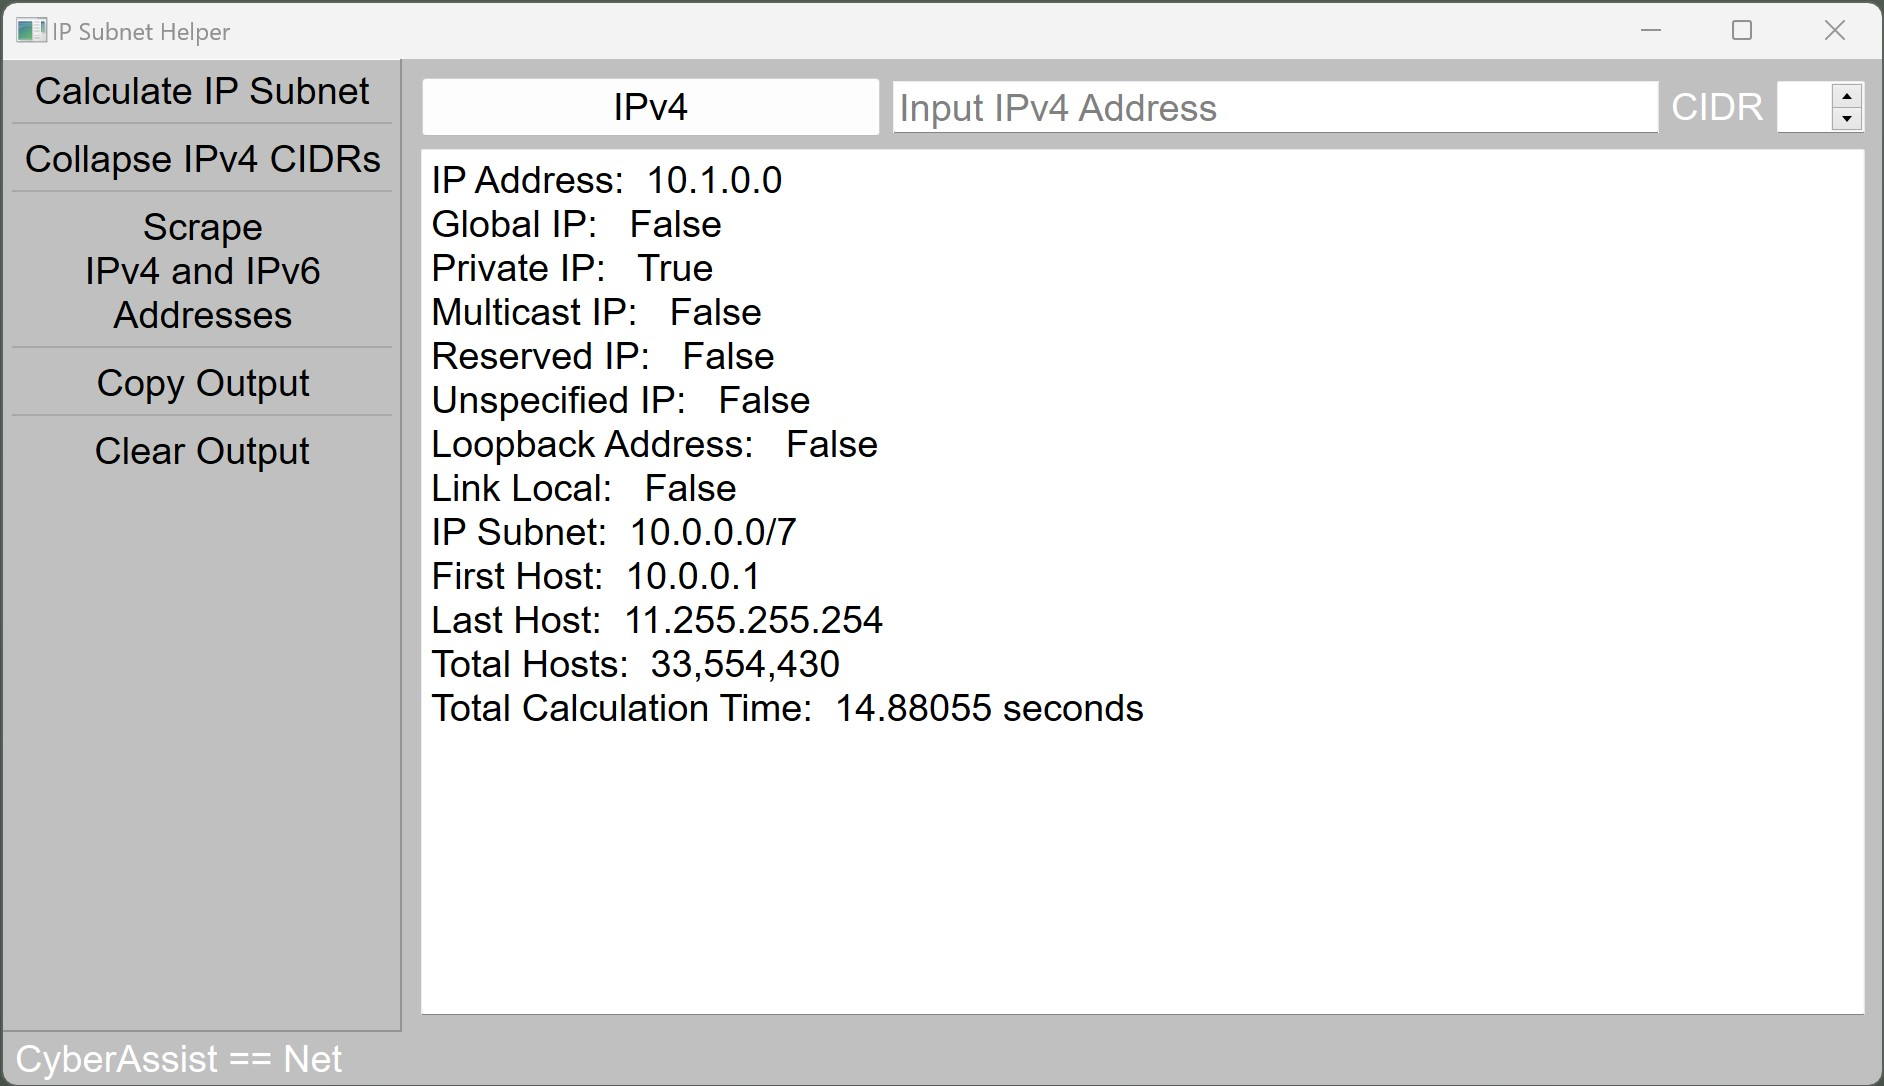
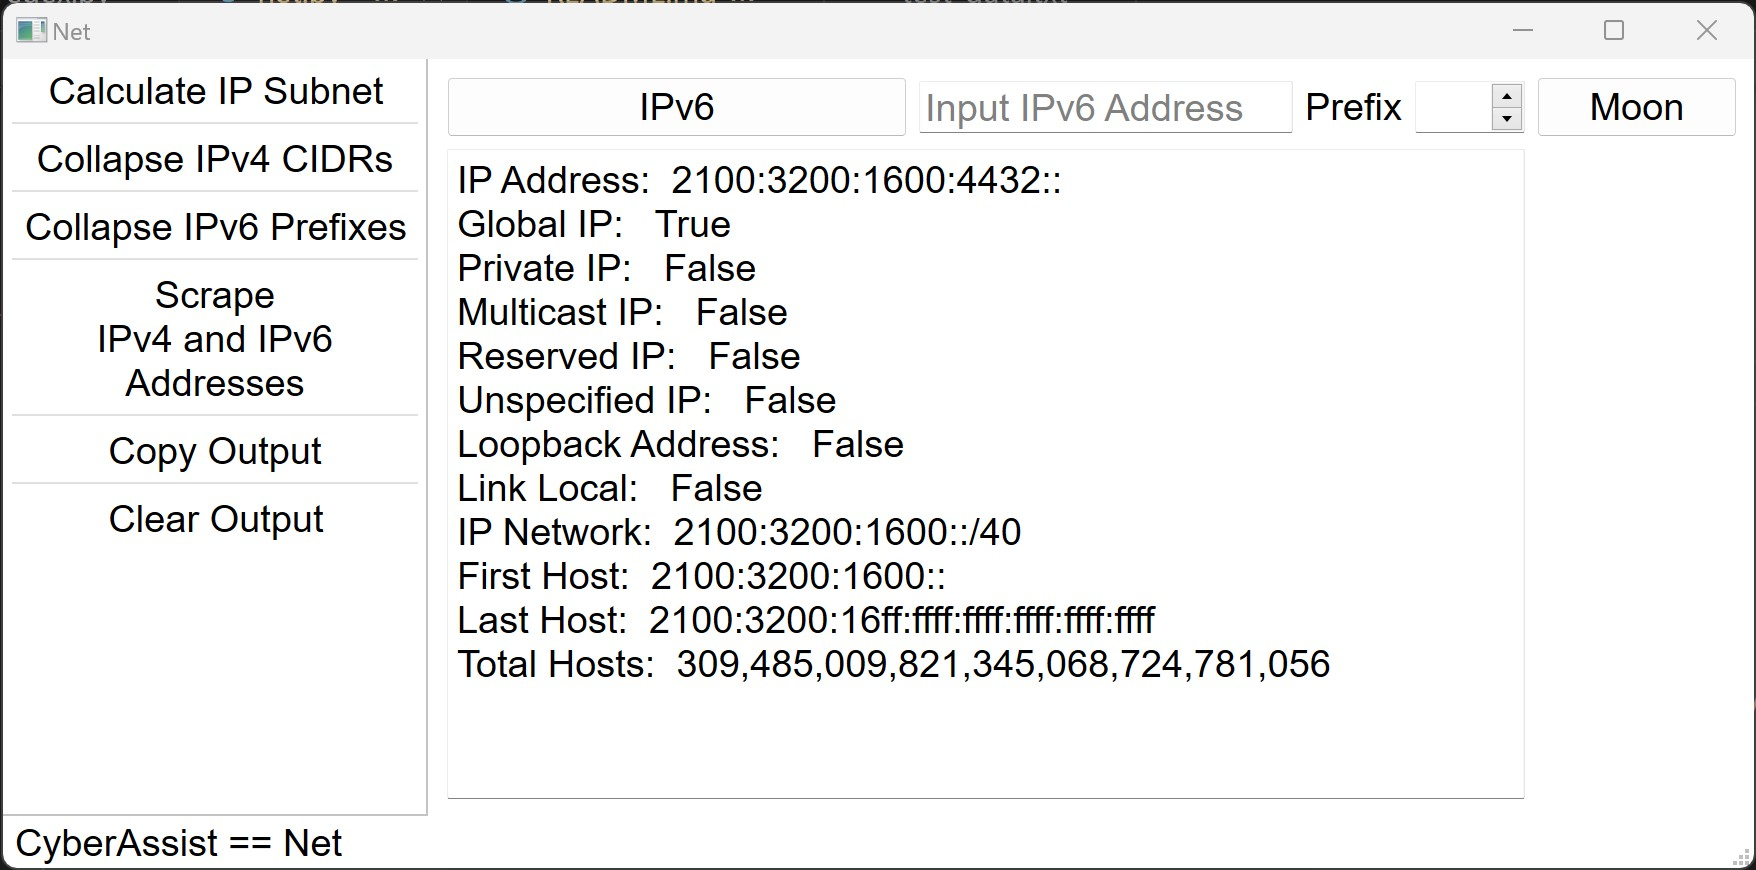
code performance enchancement

diff --git a/net/net.py b/net/net.py
@@ -47,7 +47,7 @@ class IP_calculate(QRunnable):
 
     def __init__(self, ip, ip_cidr):
             super().__init__()
-            self.signals = (ThreadSignal())
+            self.signals = ThreadSignal()
             self.ip = ip
             self.ip_cidr = ip_cidr
 
@@ -58,7 +58,6 @@ class IP_calculate(QRunnable):
         self.kwargs.
         '''
         try:
-            start_time = dt.now()
             ip_addr = ipaddress.ip_address(self.ip)
             global_ip = ip_addr.is_global
             multicast_ip = ip_addr.is_multicast
@@ -68,13 +67,10 @@ class IP_calculate(QRunnable):
             loopback_ip = ip_addr.is_loopback
             link_local = ip_addr.is_link_local
             ip_net = ipaddress.ip_network(f'{self.ip}/{self.ip_cidr}', strict=False)
-            ip_host_list = list(ip_net.hosts()) 
-            first_host = ip_host_list[0]
-            last_host = ip_host_list[-1]
-            total_hosts = '{:,}'.format(len(ip_host_list))
-            end_time = dt.now()
-            total_time = end_time - start_time
-            self.net_range = f'IP Address:  {ip_addr}\nGlobal IP:   {global_ip}\nPrivate IP:   {private_ip}\nMulticast IP:   {multicast_ip}\nReserved IP:   {reserved_ip}\nUnspecified IP:   {unspecified_ip}\nLoopback Address:   {loopback_ip}\nLink Local:   {link_local}\nIP Subnet:  {ip_net}\nFirst Host:  {first_host}\nLast Host:  {last_host}\nTotal Hosts:  {total_hosts}\nTotal Calculation Time:  {total_time.total_seconds()} seconds'
+            first_host = ip_net[0]
+            last_host = ip_net[-1]
+            total_hosts = '{:,}'.format(ip_net.num_addresses)
+            self.net_range = f'IP Address:  {ip_addr}\nGlobal IP:   {global_ip}\nPrivate IP:   {private_ip}\nMulticast IP:   {multicast_ip}\nReserved IP:   {reserved_ip}\nUnspecified IP:   {unspecified_ip}\nLoopback Address:   {loopback_ip}\nLink Local:   {link_local}\nIP Network:  {ip_net}\nFirst Host:  {first_host}\nLast Host:  {last_host}\nTotal Hosts:  {total_hosts}\n'
             self.signals.result.emit(self.net_range)
         except Exception as e:
             self.signals.error.emit(f'Invalid IP address, please try again --> {e}')
@@ -107,8 +103,8 @@ class Window(QMainWindow):
         layout.addWidget(self.ip_entry, 0, 1)
         self.ip_entry.setDisabled(True)
         #
-        self.cidr_label = QLabel('CIDR', self)
-        self.cidr_label.setText('CIDR')
+        self.cidr_label = QLabel('Prefix', self)
+        self.cidr_label.setText('Prefix')
         layout.addWidget(self.cidr_label, 0, 2)
         #
         self.cidr_entry = QSpinBox(self)
@@ -116,6 +112,11 @@ class Window(QMainWindow):
         self.cidr_entry.setAccelerated(True)
         self.cidr_entry.setAlignment(Qt.AlignmentFlag.AlignRight)
         layout.addWidget(self.cidr_entry, 0, 3)
+        #
+        self.view_mode_btn = QPushButton('Moon', self)
+        self.view_mode_btn.setFixedWidth(100)
+        self.view_mode_btn.clicked.connect(self.view_mode)
+        layout.addWidget(self.view_mode_btn, 0, 4)
         #
         self.setCentralWidget(widget)
         self._createStatusBar() 
@@ -144,6 +145,9 @@ class Window(QMainWindow):
         #
         self.main_toolbar.addAction(self.cidr_collapse_action)
         self.main_toolbar.addSeparator()
+        #   
+        self.main_toolbar.addAction(self.collapsed_ipv6_prefixes)
+        self.main_toolbar.addSeparator()
         #
         self.main_toolbar.addAction(self.ip_address_scraper)
         self.main_toolbar.addSeparator()
@@ -161,6 +165,7 @@ class Window(QMainWindow):
         self.ip_calc_action = QAction('Calculate &IP Subnet', self)
         self.ip_calc_action.setDisabled(True)
         self.cidr_collapse_action = QAction('Collapse IPv4 &CIDRs')
+        self.collapsed_ipv6_prefixes = QAction('Collapse IPv6 Prefixes')
         self.ip_address_scraper = QAction('Scrape \nIPv4 and IPv6 \nAddresses', self)
         self.copyAction = QAction('C&opy Output', self)
         self.clear_outputAction = QAction('Clear &Output', self)
@@ -172,6 +177,7 @@ class Window(QMainWindow):
         '''
         self.ip_calc_action.triggered.connect(self.calc_ip)
         self.cidr_collapse_action.triggered.connect(self.collapse_ip_subnets)
+        self.collapsed_ipv6_prefixes.triggered.connect(self.collapse_ipv6_prefixes)
         self.ip_address_scraper.triggered.connect(self.scrape_ip_address)
         self.copyAction.triggered.connect(self.copy_content)
         self.clear_outputAction.triggered.connect(self.clear_output)
@@ -184,6 +190,7 @@ class Window(QMainWindow):
         if self.ip_ver_btn.text() == 'Press to Toggle IP Version':
             self.ip_calc_action.setDisabled(False)
             self.ip_entry.setDisabled(False)
+            self.clear_output()
             self.ip_ver_btn.setText('IPv4')
             self.ip_entry.setFocus()
             self.ip_entry.setPlaceholderText('Input IPv4 Address')
@@ -192,6 +199,7 @@ class Window(QMainWindow):
         elif self.ip_ver_btn.text() == 'IPv4':
             self.ip_calc_action.setDisabled(False)
             self.ip_entry.setDisabled(False)
+            self.clear_output()
             self.ip_ver_btn.setText('IPv6')
             self.ip_entry.setFocus()
             self.ip_entry.setPlaceholderText('Input IPv6 Address')
@@ -200,6 +208,7 @@ class Window(QMainWindow):
         elif self.ip_ver_btn.text() == 'IPv6':
             self.ip_calc_action.setDisabled(True)
             self.ip_entry.setDisabled(True)
+            self.clear_output()
             self.ip_ver_btn.setText('Press to Toggle IP Version')
             self.ip_entry.setPlaceholderText('IP Address')
             self.cidr_entry.setRange(0,0)
@@ -230,24 +239,49 @@ class Window(QMainWindow):
         ip_cidr_entry, ok = QInputDialog.getMultiLineText(self, title, label, text)
         if ok == False:
             return
-        ipv4_cidr = re.compile(r'(?:(?:25[0-5]|2[0-4][0-9]|[01]?[0-9][0-9]?)\.){3}(?:25[0-5]()|2[0-4][0-9]|[01]?[0-9][0-9]?\/([2-3][0-2]|[2][3-9]|[1][0-9]|[0-9]))')
-        split_list = ip_cidr_entry.split()
-        cidr_list = []
-        for item in split_list:
-            ip_cidr_result = ipv4_cidr.fullmatch(item)
-            if ip_cidr_result:
-                cidr_list.append(ip_cidr_result.group())  
+        cidr_list = ip_cidr_entry.split() 
         cidr_validated_list = []
-        for cidr in cidr_list:
+        cidr_invalidated_list = []
+        for item in cidr_list:
             try:
-                cidr = ipaddress.ip_network(cidr)
+                cidr = ipaddress.ip_network(item, strict=False)
                 cidr_validated_list.append(cidr)
             except ValueError as e:
-                self.output_text.insertPlainText(f'{cidr} is not a valid IP CIDR\n')
+                cidr_invalidated_list.append(item)
         collapsed_cidr = ipaddress.collapse_addresses(cidr_validated_list)
-        self.output_text.insertPlainText('Collapsed CIDRs\n')
-        for collapsed in collapsed_cidr:
-            self.output_text.insertPlainText(f'{collapsed}\n')
+        collapsed_cidr = '\n'.join(str(item) for item in collapsed_cidr)
+        self.output_text.insertPlainText(f'Collapsed CIDRs\n{collapsed_cidr}\n')
+        invalid_cidr = '\n'.join(cidr_invalidated_list)
+        self.output_text.insertPlainText(f'\nInvalid CIDRs\n{invalid_cidr}')
+
+
+    def collapse_ipv6_prefixes(self):
+        '''
+        Collapse IPv6 prefix CIDRs
+        '''
+        self.output_text.clear()
+        title = "Collapse CIDRs"
+        label = "Collapse IPv6 CIDRs"
+        text = "Input text containting IPv6 CIDRs"
+        ipv6_entry, ok = QInputDialog.getMultiLineText(self, title, label, text)
+        if ok == False:
+            return
+        split_list = ipv6_entry.split()
+        prefix_validated_list = []
+        prefix_invalidated_list = []
+        for item in split_list:
+            try:
+                ipv6_net = ipaddress.ip_network(f'{item}', strict=False)
+                if ipv6_net:
+                    prefix_validated_list.append(ipv6_net)
+            except ValueError as e:
+                prefix_invalidated_list.append(item)
+        collapsed_ipv6_prefixes = ipaddress.collapse_addresses(prefix_validated_list)
+        collapsed_ipv6_prefixes = '\n'.join(str(item) for item in collapsed_ipv6_prefixes)
+        self.output_text.insertPlainText(f'Collapsed IPv6 Prefixes\n{collapsed_ipv6_prefixes}\n')
+        invalid_ipv6_prefixes = '\n'.join(str(item) for item in prefix_invalidated_list)
+        self.output_text.insertPlainText(f'\nInvalid IPv6 Prefixes\n{invalid_ipv6_prefixes}')   
+
 
     def scrape_ip_address(self):
         '''
@@ -266,45 +300,32 @@ class Window(QMainWindow):
         label = "Retrieve IPv4 and/or IPv6 addresses"
         scrape_text = "Paste in text containting IPv4 or IPv6 addresses"
         ip_input_text, ok = QInputDialog.getMultiLineText(self, scrape_title, label, scrape_text)
-        if ok == True:
-            sep_title = 'Enter a separation character'
-            sep_label = '(, ; | or press enter for space delimited)'
-            ip_separator, ok = QInputDialog.getText(self, sep_title, sep_label)
-            if ok == False:
-                return
-        else:
-            return
-        
-        if ip_separator == '':
-            ip_separator = ' '
-        
+        ip_input_list = []
         ipv4_list = []
-        split_list = ip_input_text.split(ip_separator)
-        for item in split_list:
+        if ok == True:
+            ip_input_list = ip_input_text.split()
+        else:
+            return      
+        for item in ip_input_list:
             ipv4_result = ipv4_addr.fullmatch(item)
             if ipv4_result:
                 ipv4_list.append(ipv4_result.group())
-        
         standard_compressed_list = []
-        split_list = ip_input_text.split(ip_separator)
-        for item in split_list:
+        for item in ip_input_list:
             std_result = ipv6_standard_compressed.fullmatch(item)
             if std_result:
                 standard_compressed_list.append(std_result.group())
-        
         mixed_compressed_list = []
-        split_list = ip_input_text.split(ip_separator)
-        for item in split_list:
+        for item in ip_input_list:
             mixed_compressed_result = ipv6_mixed_compressed.fullmatch(item)
             if mixed_compressed_result:
                 mixed_compressed_list.append(mixed_compressed_result.group())
-        
-        ipv4_text_block = '\n'.join(ipv4_list)
-        standard_compressed_text_block = '\n'.join(standard_compressed_list)
-        mixed_notation_text_block = '\n'.join(mixed_compressed_list)
-        
+        ipv4_text_block = '\n'.join(list(set(ipv4_list)))
+        standard_compressed_text_block = '\n'.join(list(set(standard_compressed_list)))
+        mixed_notation_text_block = '\n'.join(list(set(mixed_compressed_list)))
         scraped_ip_text = f'IPv4 Addresses:\n{ipv4_text_block}\n\nStandard and Compressed IPv6 Addresses:\n{standard_compressed_text_block}\n\nMixed and Mixed Compressed IPv6 Addresses:\n{mixed_notation_text_block}'
         self.output_text.clear()
+        # Consider not printing scraped lists that are empty
         self.output_text.insertPlainText(scraped_ip_text)
         
     def copy_content(self):
@@ -332,22 +353,49 @@ class Window(QMainWindow):
         self.ip_entry.setFocus()
         self.ip_calc_action.setDisabled(False)
 
+    def view_mode(self):
+        '''
+        Sun of Moon Mode
+        '''
+        mode = self.view_mode_btn.text()
+        if mode == 'Sun':
+            self.view_mode_btn.setText('Moon')
+            self.sun_palette = QPalette()
+            self.sun_palette.setColor(QPalette.ColorRole.Base, Qt.GlobalColor.white)
+            self.sun_palette.setColor(QPalette.ColorRole.Window, Qt.GlobalColor.white)
+            self.sun_palette.setColor(QPalette.ColorRole.WindowText, Qt.GlobalColor.black)
+            self.sun_palette.setColor(QPalette.ColorRole.Button, Qt.GlobalColor.white)
+            self.sun_palette.setColor(QPalette.ColorRole.ButtonText, Qt.GlobalColor.black)
+            self.sun_palette.setColor(QPalette.ColorRole.PlaceholderText, Qt.GlobalColor.darkGray)
+            self.sun_palette.setColor(QPalette.ColorGroup.Disabled, QPalette.ColorRole.ButtonText, Qt.GlobalColor.black)
+            self.setPalette(self.sun_palette)
+        elif mode == 'Moon':
+            self.view_mode_btn.setText('Sun')
+            self.moon_palette = QPalette()
+            self.moon_palette.setColor(QPalette.ColorRole.Base, Qt.GlobalColor.transparent)
+            self.moon_palette.setColor(QPalette.ColorRole.Window, Qt.GlobalColor.gray)
+            self.moon_palette.setColor(QPalette.ColorRole.WindowText, Qt.GlobalColor.black)
+            self.moon_palette.setColor(QPalette.ColorRole.Button, Qt.GlobalColor.white)
+            self.moon_palette.setColor(QPalette.ColorRole.ButtonText, Qt.GlobalColor.black)
+            self.moon_palette.setColor(QPalette.ColorRole.PlaceholderText, Qt.GlobalColor.darkGray)
+            self.moon_palette.setColor(QPalette.ColorGroup.Disabled, QPalette.ColorRole.ButtonText, Qt.GlobalColor.black)
+            self.setPalette(self.moon_palette)
+
 
 # ::Run Main::
 if __name__ == '__main__':
-    app = QApplication(sys.argv)
-    # app.setStyle('Fusion')
+    app = QApplication(sys.argv)    # app.setStyle('Fusion')
     palette = QPalette()
     palette.setColor(QPalette.ColorRole.Base, Qt.GlobalColor.white)
-    palette.setColor(QPalette.ColorRole.Window, Qt.GlobalColor.lightGray)
-    palette.setColor(QPalette.ColorRole.WindowText, Qt.GlobalColor.white)
+    palette.setColor(QPalette.ColorRole.Window, Qt.GlobalColor.white)
+    palette.setColor(QPalette.ColorRole.WindowText, Qt.GlobalColor.black)
     palette.setColor(QPalette.ColorRole.Button, Qt.GlobalColor.white)
     palette.setColor(QPalette.ColorRole.ButtonText, Qt.GlobalColor.black)
     palette.setColor(QPalette.ColorRole.PlaceholderText, Qt.GlobalColor.darkGray)
-    palette.setColor(QPalette.ColorGroup.Disabled, QPalette.ColorRole.ButtonText, Qt.GlobalColor.gray)
+    palette.setColor(QPalette.ColorGroup.Disabled, QPalette.ColorRole.ButtonText, Qt.GlobalColor.black)
     app.setPalette(palette)
     win = Window()
-    win.setWindowTitle('IP Subnet Helper')
+    win.setWindowTitle('Net')
     # base = win.baseSize()
     # win.setBaseSize(base)
     win.show()

diff --git a/hash/hash.py b/hash/hash.py
@@ -231,7 +231,7 @@ class Window(QMainWindow):
                     self.output_text.clear()
                     self.hash_output(f'{vt_data}')
                 except KeyError as e:
-                    self.hash_output(f'Error: {e}')
+                    self.hash_output(f'No Virus Total data for {hash_value}')
             else:
                 self.hash_output('Invalid hash value')
 

diff --git a/README.md b/README.md
@@ -2,7 +2,7 @@
 Cyber Analysts need tools. The CyberAssist Project is a collection of deskside tools designed for cyber analysts. Each tool is a gui interface with powerful capability. The first **CyberAssist Project** release is "*Net*", an ip subnet helper for those less familair with the practice of IP subnetting.  
 
 ## Coding
-All tools are coded with **Python** and **PyQT6**. PyQT6 was selected as a GUI Framework for it's friendly and fast coding attributes and it's easy to use implementation of PyQT Threads. PyQT implementation of threads improves performance for processing intense calculations. For example, when calculating large IP subnets, workers will send your task to multiple threads and run the task in the background. This feature means that the main application will not "freeze" because the apps main event loop is still free to process user actions such as button clicks or dragging the app to a new location on the desktop. When a task is being processed in this way, the button for submitting the task will be disabled until the task is completed to avoid processing duplication. After the task is completed, the button is re-enabled for use. 
+All tools are coded with **Python** and **PyQT6**. PyQT6 was selected as a GUI Framework for it's friendly and fast coding attributes and it's performance enhancing and easy to use implementation of PyQT Threads.
 
 ## Cyber Community
 I maintain the Cyber Assist Project for the Cyber Community in an effort to promote the legal use and sharing of functional cyber security tools. Maintaining a small set of local, trusted tools prevents the download of weaponized trojans and provides underserved cyber analysts with a free, essential resource. I am hopeful that your investigations are assisted, learning results from there use and that these tools are improved further by community contributions.
@@ -16,18 +16,21 @@ See https://github.com/thall63/CyberAssist/blob/main/LICENSE
 ## Available Apps
 - Net
   - Net is an IP subnet calculator with extras
-  - IP subnet calculation including subnet range, default gateway and a count of the IP contained in the subnet
-  - User defined CIDR mask
-  - Provides idenfication of global, private, multicast, reserved, unspecified, loopback and link local IP addresses
+  - IPv4 subnet calculation includes subnet range, default gateway and a count of the total nubmer of hosts
+  - IPv6 subnet calculation includes range the first and last host of the subnet and the total number of hosts
+  - User defined network prefix
+  - IPv4 and IPv6 calculations include idenfication of global, private, multicast, reserved, unspecified, loopback and link local IP addresses
   - Collapses multiple, contiguous IPv4 subnets into the largest subnet possible
-  - Scrapes valid IP Addresses from unstructured text. IP addresses may be both IPv4 and IPv6 within an unstructed text. IP addresses must be delimited by (space , ; or |). The scrape functionality considers only "full matches". Continuous, non-delimited text would produce valid matches from within invalid IP addresses. Therefore, non-delimited addresses cannot be matched reliably and is not supported.
+  - Collapses multiple, contingous IPv6 prefixes into the largest possible summary
+  - Scrapes valid IP Addresses from unstructured text. IP addresses may be both IPv4 and IPv6 within an unstructured text. The scrape functionality considers only "full matches". IP addresses must be separated from other text by at least a single space.
 
   ![](net/net_screenshot.jpg)
 
-- Hash
+-  
   - Hash is a file hashing tool with extras
   - Create a hash of any file. Many hash types are available or generate all hashes. Hash types include md5, sha1, sha224, sha256, sha384, sha512, sha3_224, sha3_256, sha3_384, and sha3_512
   - Submit any hash of type md5, sha-1 or sha-256 to Virus Total (Requires Virus Total personal API token)
+  - Returns Virus Total reputaion and vendors who have flagged the hash value as malicious
   
   ![](hash/hash_screenshot.jpg)
 

diff --git a/net/README.md b/net/README.md
@@ -10,9 +10,14 @@ Simply install PyQt6 into your python environment, *pip install PyQt6*. The main
 See https://github.com/thall63/CyberAssist/blob/main/LICENSE
 
 ## Features
-- Net is an IP subnet calculator with extras
-- IP subnet calculation including subnet range, default gateway and a count of the IP contained in the subnet
-- User defined CIDR mask
-- Provides idenfication of global, private, multicast, reserved, unspecified, loopback and link local IP addresses
-- Collapses multiple, contiguous IPv4 subnets into the largest subnet possible
-- Scrapes valid IP Addresses from unstructured text. IP addresses may be both IPv4 and IPv6 within an unstructed text. IP addresses must be delimited by (space , ; or |). The scrape functionality considers only "full matches". Continuous, non-delimited text would produce valid matches from within invalid IP addresses. Therefore, non-delimited addresses cannot be matched reliably and is not supported.
+- Net
+  - Net is an IP subnet calculator with extras
+  - IPv4 subnet calculation includes subnet range, default gateway and a count of the total nubmer of hosts
+  - IPv6 subnet calculation includes range the first and last host of the subnet and the total number of hosts
+  - User defined network prefix
+  - IPv4 and IPv6 calculations include idenfication of global, private, multicast, reserved, unspecified, loopback and link local IP addresses
+  - Collapses multiple, contiguous IPv4 subnets into the largest subnet possible
+  - Collapses multiple, contingous IPv6 prefixes into the largest possible summary
+  - Scrapes valid IP Addresses from unstructured text. IP addresses may be both IPv4 and IPv6 within an unstructured text. The scrape functionality considers only "full matches". IP addresses must be separated from other text by at least a single space.
+  - Sun or Moon UI Presentation
+

diff --git a/hash/README.md b/hash/README.md
@@ -13,3 +13,4 @@ See https://github.com/thall63/CyberAssist/blob/main/LICENSE
 - Hash is a file hashing tool with extras
 - Create a hash of any file. Many hash types are available or generate all hashes. Hash types include md5, sha1, sha224, sha256, sha384, sha512, sha3_224, sha3_256, sha3_384, and sha3_512
 - Submit any hash of type md5, sha-1 or sha-256 to Virus Total (Requires Virus Total personal API token)
+- Returns Virus Total reputaion and vendors who have flagged the hash value as malicious
